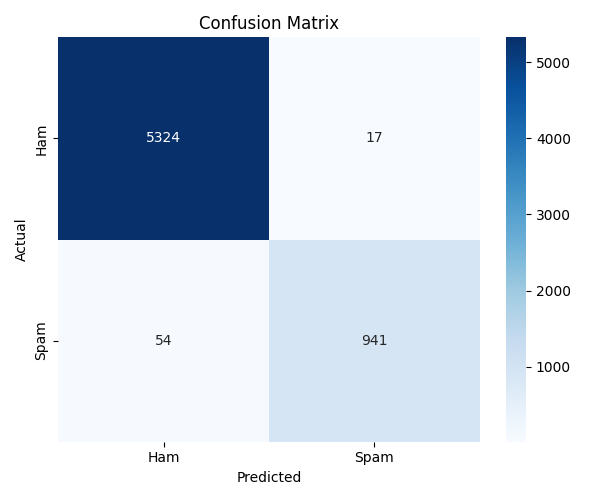
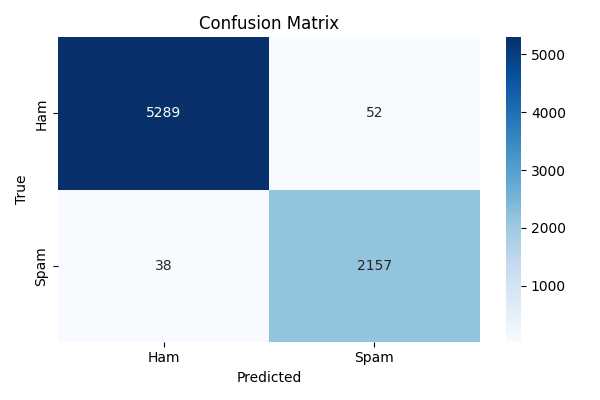
Updated results and analysis after retraining model

diff --git a/src/analyze_model.py b/src/analyze_model.py
@@ -1,0 +1,71 @@
+import os
+import joblib
+import pandas as pd
+import matplotlib.pyplot as plt
+import seaborn as sns
+from sklearn.metrics import classification_report, confusion_matrix
+from src.data_fetch import load_sms
+from src.preprocess import preprocess
+
+RESULTS_DIR = "results"
+os.makedirs(RESULTS_DIR, exist_ok=True)
+
+def analyze(model_path="models/nb_pipeline.joblib",
+            data_path="data/processed/merged_dataset.csv"):
+    
+    print("Loading model:", model_path)
+    model = joblib.load(model_path)
+
+    print("Loading dataset:", data_path)
+    df = load_sms(data_path)
+    df["clean_text"] = df["text"].apply(preprocess)
+
+    X = df["clean_text"]
+    y = df["label"]
+
+    preds = model.predict(X)
+
+    print("\n=== CLASSIFICATION REPORT ===\n")
+    print(classification_report(y, preds, digits=4))
+
+    print("\n=== CONFUSION MATRIX ===\n")
+    cm = confusion_matrix(y, preds)
+    print(cm)
+
+    # Save confusion matrix image
+    plt.figure(figsize=(6, 4))
+    sns.heatmap(cm, annot=True, fmt="d", cmap="Blues",
+                xticklabels=["Ham", "Spam"],
+                yticklabels=["Ham", "Spam"])
+    plt.title("Confusion Matrix")
+    plt.ylabel("True")
+    plt.xlabel("Predicted")
+    plt.tight_layout()
+    cm_path = os.path.join(RESULTS_DIR, "confusion_matrix.png")
+    plt.savefig(cm_path)
+    plt.close()
+    print("Saved:", cm_path)
+
+    # Top spam features
+    vectorizer = model.named_steps["tfidf"]
+    clf = model.named_steps["clf"]
+
+    feature_names = vectorizer.get_feature_names_out()
+    spam_scores = clf.feature_log_prob_[1]
+
+    top = sorted(zip(feature_names, spam_scores),
+                 key=lambda x: x[1], reverse=True)[:30]
+
+    # Save as image
+    words, scores = zip(*top)
+    plt.figure(figsize=(10, 8))
+    sns.barplot(x=list(scores), y=list(words))
+    plt.title("Top Spam Features (Log Probabilities)")
+    plt.tight_layout()
+    features_path = os.path.join(RESULTS_DIR, "top_spam_features.png")
+    plt.savefig(features_path)
+    plt.close()
+    print("Saved:", features_path)
+
+if __name__ == "__main__":
+    analyze()
